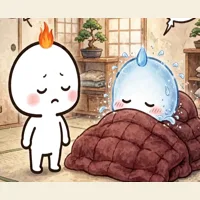
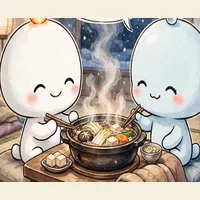
Yonkoma: publish ep6 お鍋 (2026-11-26) + bar thumb

diff --git a/index.html b/index.html
@@ -441,18 +441,18 @@
 <!-- static-articles:end -->
 
   <div class="sub-zone">
-<details class="faq-outer yk-fold"><summary><span class="new-badge" id="nb-yonko" style="display:none">NEW</span><img class="bar-thumb" src="yonko-bar.webp" alt="">四コマ（ひーくんとみーちゃん）</summary><div class="faq-inner"><section class="yonkoma" id="yonkomaBox" aria-label="火水四コマ" data-date="2026-11-25">
+<details class="faq-outer yk-fold"><summary><span class="new-badge" id="nb-yonko" style="display:none">NEW</span><img class="bar-thumb" src="yonko-bar.webp" alt="">四コマ（ひーくんとみーちゃん）</summary><div class="faq-inner"><section class="yonkoma" id="yonkomaBox" aria-label="火水四コマ" data-date="2026-11-26">
     <h2>火水四コマ<span class="yk-new" id="ykNew" hidden>NEW</span></h2>
     <p class="yk-hint">タップすると、大きく読めます</p>
-    <p class="yk-ep"><span class="yk-ep-no">第5話</span>「こたつ」・2026年11月25日</p>
+    <p class="yk-ep"><span class="yk-ep-no">第6話</span>「お鍋」・2026年11月26日</p>
     <div class="yk-stack">
-      <img class="yk-panel" src="yonkoma-20261125-w1.webp" width="1200" height="900" tabindex="0" role="button" aria-label="四コマを大きく表示（1コマ目）" alt="四コマ1：こたつを出したひーくん。「こたつ、出したよ」">
-      <img class="yk-panel" src="yonkoma-20261125-w2.webp" width="1200" height="900" tabindex="0" role="button" aria-label="四コマを大きく表示（2コマ目）" alt="四コマ2：こたつから頭だけ出してぬくぬくするみーちゃん。「……あったかい」" loading="lazy">
-      <img class="yk-panel" src="yonkoma-20261125-w3.webp" width="1200" height="900" tabindex="0" role="button" aria-label="四コマを大きく表示（3コマ目）" alt="四コマ3：「みーちゃん、出てこないの？」と聞くひーくんと「……でない」と答えるみーちゃん" loading="lazy">
-      <img class="yk-panel" src="yonkoma-20261125-w4.webp" width="1200" height="900" tabindex="0" role="button" aria-label="四コマを大きく表示（4コマ目）" alt="四コマ4：二人でこたつに入ってぬくぬく。「……ぬくぬく」" loading="lazy">
+      <img class="yk-panel" src="yonkoma-20261126-w1.webp" width="1200" height="900" tabindex="0" role="button" aria-label="四コマを大きく表示（1コマ目）" alt="四コマ1：鍋を用意するひーくん。「今夜は、鍋だよ」">
+      <img class="yk-panel" src="yonkoma-20261126-w2.webp" width="1200" height="900" tabindex="0" role="button" aria-label="四コマを大きく表示（2コマ目）" alt="四コマ2：具材を持ってくるみーちゃん。「……これも、入れていい？」" loading="lazy">
+      <img class="yk-panel" src="yonkoma-20261126-w3.webp" width="1200" height="900" tabindex="0" role="button" aria-label="四コマを大きく表示（3コマ目）" alt="四コマ3：鍋を囲む二人。「あったかいね」" loading="lazy">
+      <img class="yk-panel" src="yonkoma-20261126-w4.webp" width="1200" height="900" tabindex="0" role="button" aria-label="四コマを大きく表示（4コマ目）" alt="四コマ4：鍋を食べる二人。「……しあわせ」" loading="lazy">
     </div>
     <div class="yk-close">
-      <p class="yk-phrase">寒い日は、こたつでぬくぬく</p>
+      <p class="yk-phrase">雪の夜は、鍋であったかく</p>
     </div>
     <p class="yk-ehon"><a href="https://kasuiehon.pages.dev/" target="_blank" rel="noopener noreferrer">絵本『ひーくんと みーちゃん』はこちら →</a></p>
   </section>
@@ -475,6 +475,17 @@
       ※ポップアップ内には「← 前の話／次の話 →」が上下両方にあり、最新話を含む全話を順に読める。
       ※「♡ほっとした」ボタンはポップアップ側で話ごとに自動で効く（IDはパネル画像名の yonkoma-YYYYMMDD から自動生成される）。過去分を足すときにボタン側の作業は不要。
       -->
+      <article class="yk-past">
+        <h3 class="yk-past-title">第5話　こたつ</h3>
+        <p class="yk-past-date">2026年11月25日</p>
+        <div class="yk-stack">
+          <img class="yk-panel" data-src="yonkoma-20261125-w1.webp" width="1200" height="900" tabindex="0" role="button" aria-label="四コマを大きく表示（1コマ目）" alt="四コマ1：こたつを出したひーくん。「こたつ、出したよ」" loading="lazy">
+          <img class="yk-panel" data-src="yonkoma-20261125-w2.webp" width="1200" height="900" tabindex="0" role="button" aria-label="四コマを大きく表示（2コマ目）" alt="四コマ2：こたつから頭だけ出してぬくぬくするみーちゃん。「……あったかい」" loading="lazy">
+          <img class="yk-panel" data-src="yonkoma-20261125-w3.webp" width="1200" height="900" tabindex="0" role="button" aria-label="四コマを大きく表示（3コマ目）" alt="四コマ3：「みーちゃん、出てこないの？」と聞くひーくんと「……でない」と答えるみーちゃん" loading="lazy">
+          <img class="yk-panel" data-src="yonkoma-20261125-w4.webp" width="1200" height="900" tabindex="0" role="button" aria-label="四コマを大きく表示（4コマ目）" alt="四コマ4：二人でこたつに入ってぬくぬく。「……ぬくぬく」" loading="lazy">
+        </div>
+        <p class="yk-past-phrase">寒い日は、こたつでぬくぬく</p>
+      </article>
       <article class="yk-past">
         <h3 class="yk-past-title">第4話　寒い朝</h3>
         <p class="yk-past-date">2026年11月24日</p>
@@ -641,12 +652,12 @@
     <p class="yk-modal-ep" id="ykModalEp" hidden></p>
     <p class="yk-modal-date" id="ykModalDate" hidden></p>
     <div class="yk-modal-stack">
-      <img src="yonkoma-20261125-w1.webp" width="1200" height="900" alt="四コマ1：こたつを出したひーくん。「こたつ、出したよ」">
-      <img src="yonkoma-20261125-w2.webp" width="1200" height="900" alt="四コマ2：こたつから頭だけ出してぬくぬくするみーちゃん。「……あったかい」" loading="lazy">
-      <img src="yonkoma-20261125-w3.webp" width="1200" height="900" alt="四コマ3：「みーちゃん、出てこないの？」と聞くひーくんと「……でない」と答えるみーちゃん" loading="lazy">
-      <img src="yonkoma-20261125-w4.webp" width="1200" height="900" alt="四コマ4：二人でこたつに入ってぬくぬく。「……ぬくぬく」" loading="lazy">
+      <img src="yonkoma-20261126-w1.webp" width="1200" height="900" alt="四コマ1：鍋を用意するひーくん。「今夜は、鍋だよ」">
+      <img src="yonkoma-20261126-w2.webp" width="1200" height="900" alt="四コマ2：具材を持ってくるみーちゃん。「……これも、入れていい？」" loading="lazy">
+      <img src="yonkoma-20261126-w3.webp" width="1200" height="900" alt="四コマ3：鍋を囲む二人。「あったかいね」" loading="lazy">
+      <img src="yonkoma-20261126-w4.webp" width="1200" height="900" alt="四コマ4：鍋を食べる二人。「……しあわせ」" loading="lazy">
     </div>
-    <p class="yk-modal-phrase">寒い日は、こたつでぬくぬく</p>
+    <p class="yk-modal-phrase">雪の夜は、鍋であったかく</p>
     <div class="m-like-wrap"><button class="like" id="ykLike" type="button"><span class="heart">♡</span>ほっとした<span class="cnt">0</span></button></div>
     <div class="yk-nav yk-nav-bottom" id="ykNavBottom" hidden>
       <button type="button" class="yk-nav-btn" data-yk-nav="prev">← 前の話</button>
